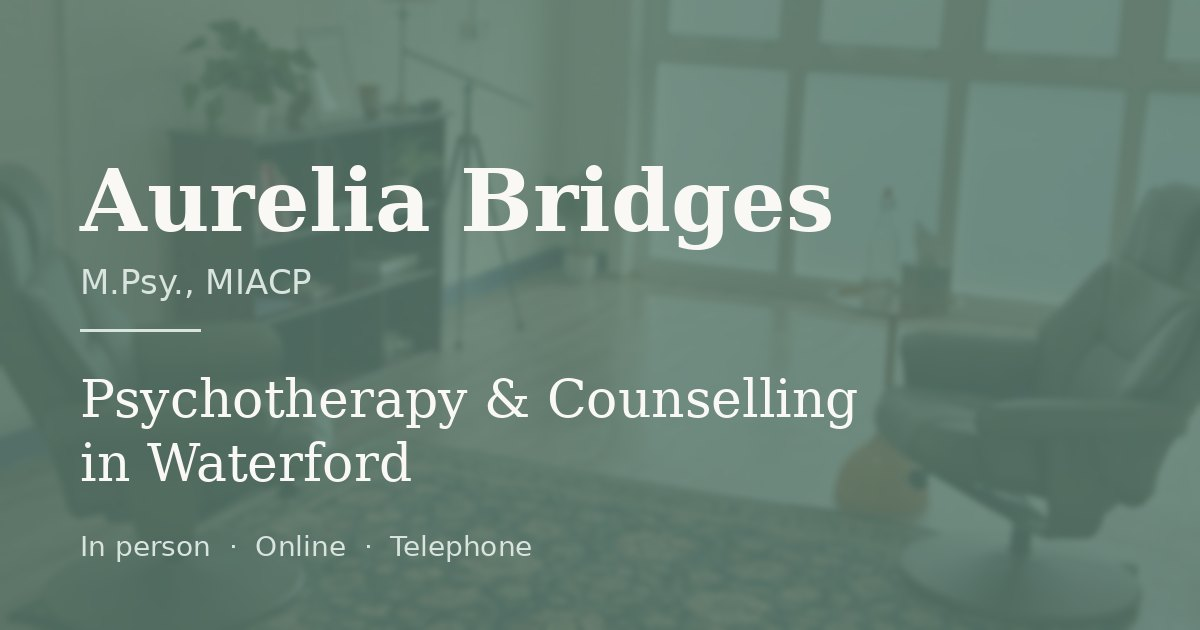
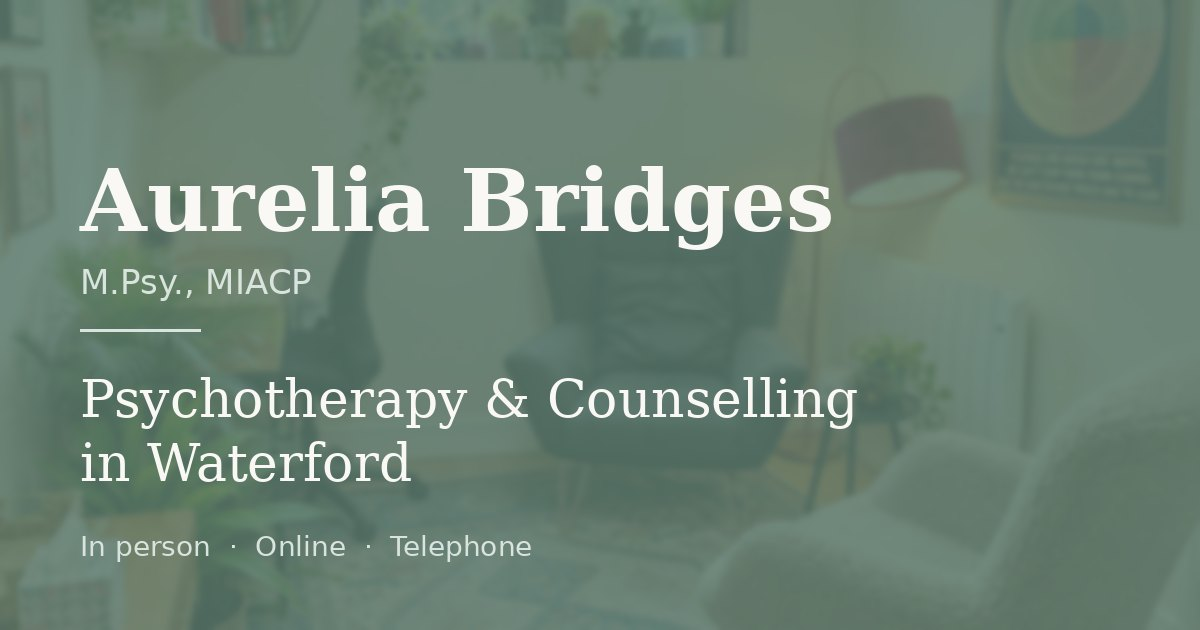
Replace the old-premises room photo with the new Johnstown room
Practical Info and Contact were still showing the City Enterprise Centre
room (block walls, frosted glazing, leather recliners) months after the
move to Unit 3, Johnstown. So was the share card, which is also the
LocalBusiness schema image, so every link preview showed a room clients
will never walk into.

- Practical Info: the owner's wide shot of the whole room, already
  trimmed of a cut-off poster at the left edge.
- Contact: a landscape crop of the owner's close-up of the armchair,
  lamp and side table, framed to keep the chair whole and exclude the
  cut-off poster text at the top right. The two pages now show
  different views.
- og-image.jpg rebuilt from the wide shot in the existing design.
- Old-room images removed; nothing references them.

Variants at 400, 800 and full source width in WebP and JPEG, never
upscaled, no EXIF or GPS. A phone fetches about 27KB for the wide shot.
New filenames rather than reusing the old ones, so no browser shows a
cached old room. Captions unchanged; both remain accurate.

Verified at 380px and 1280px: both photos load, correct dimensions, no
broken requests, no horizontal overflow.

Claude-Session: https://claude.ai/code/session_01B3iKA365WUfnNmJ4xgdEah

diff --git a/practical.html b/practical.html
@@ -351,9 +351,9 @@
 
         <div class="room-showcase fade-in">
           <picture>
-            <source type="image/webp" srcset="images/therapy-room-400.webp 400w, images/therapy-room-800.webp 800w, images/therapy-room-1600.webp 1600w" sizes="(max-width: 768px) 92vw, 900px">
-            <source type="image/jpeg" srcset="images/therapy-room-400.jpg 400w, images/therapy-room-800.jpg 800w, images/therapy-room-1600.jpg 1600w" sizes="(max-width: 768px) 92vw, 900px">
-            <img src="images/therapy-room-800.jpg" alt="The therapy room, with two comfortable armchairs in a calm, private space and natural light" width="1600" height="1200" loading="lazy" decoding="async">
+            <source type="image/webp" srcset="images/room-johnstown-wide-400.webp 400w, images/room-johnstown-wide-800.webp 800w, images/room-johnstown-wide-1389.webp 1389w" sizes="(max-width: 768px) 92vw, 900px">
+            <source type="image/jpeg" srcset="images/room-johnstown-wide-400.jpg 400w, images/room-johnstown-wide-800.jpg 800w, images/room-johnstown-wide-1389.jpg 1389w" sizes="(max-width: 768px) 92vw, 900px">
+            <img src="images/room-johnstown-wide-800.jpg" alt="The therapy room at Johnstown, with two armchairs facing each other on a patterned rug, a floor lamp, plants and a window" width="1389" height="1024" loading="lazy" decoding="async">
           </picture>
           <p class="room-caption">The therapy room, a calm, private space designed for comfort and reflection.</p>
         </div>

diff --git a/contact.html b/contact.html
@@ -485,9 +485,9 @@
 
         <div class="room-showcase fade-in">
           <picture>
-            <source type="image/webp" srcset="images/therapy-room-400.webp 400w, images/therapy-room-800.webp 800w, images/therapy-room-1600.webp 1600w" sizes="(max-width: 768px) 92vw, 900px">
-            <source type="image/jpeg" srcset="images/therapy-room-400.jpg 400w, images/therapy-room-800.jpg 800w, images/therapy-room-1600.jpg 1600w" sizes="(max-width: 768px) 92vw, 900px">
-            <img src="images/therapy-room-800.jpg" alt="The therapy room, with two comfortable armchairs in a calm, private space and natural light" width="1600" height="1200" loading="lazy" decoding="async">
+            <source type="image/webp" srcset="images/room-johnstown-corner-400.webp 400w, images/room-johnstown-corner-800.webp 800w, images/room-johnstown-corner-1122.webp 1122w" sizes="(max-width: 768px) 92vw, 900px">
+            <source type="image/jpeg" srcset="images/room-johnstown-corner-400.jpg 400w, images/room-johnstown-corner-800.jpg 800w, images/room-johnstown-corner-1122.jpg 1122w" sizes="(max-width: 768px) 92vw, 900px">
+            <img src="images/room-johnstown-corner-800.jpg" alt="A dark grey armchair beside a red floor lamp and a small side table with candles, in the therapy room" width="1122" height="616" loading="lazy" decoding="async">
           </picture>
           <p class="room-caption">A warm, welcoming space where you can feel at ease.</p>
         </div>
